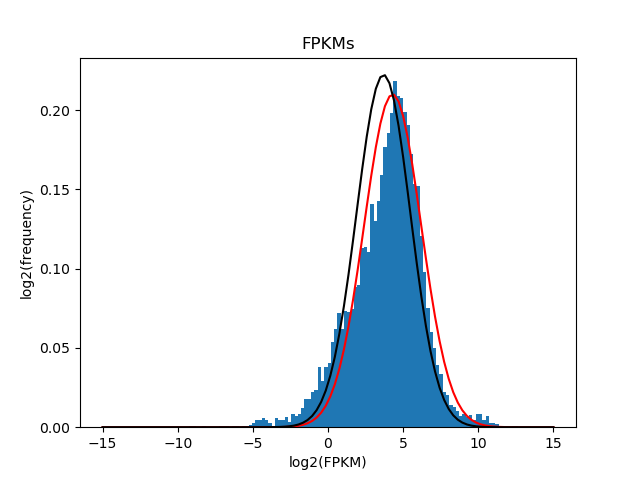
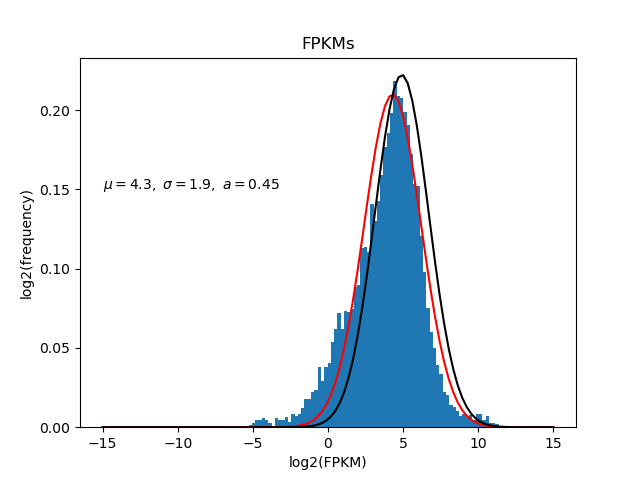
fix question 1

Changed region(s): [[0.4375, 0.1562, 0.7812, 0.9062], [0.1562, 0.375, 0.4375, 0.4062]]

diff --git a/day4-lunch/01-hist.py b/day4-lunch/01-hist.py
@@ -33,7 +33,8 @@ ax.plot(x, y, color= "black")
 plt.title('FPKMs')
 plt.xlabel('log2(FPKM)')
 plt.ylabel('log2(frequency)')
-
+plt.text(-15, 0.15 , r'$\mu=4.3,\ \sigma=1.9,\ a=0.45$')
+#add sigma values, etc to plot
 
 fig.savefig("fpkms.png")
 plt.close(fig)
